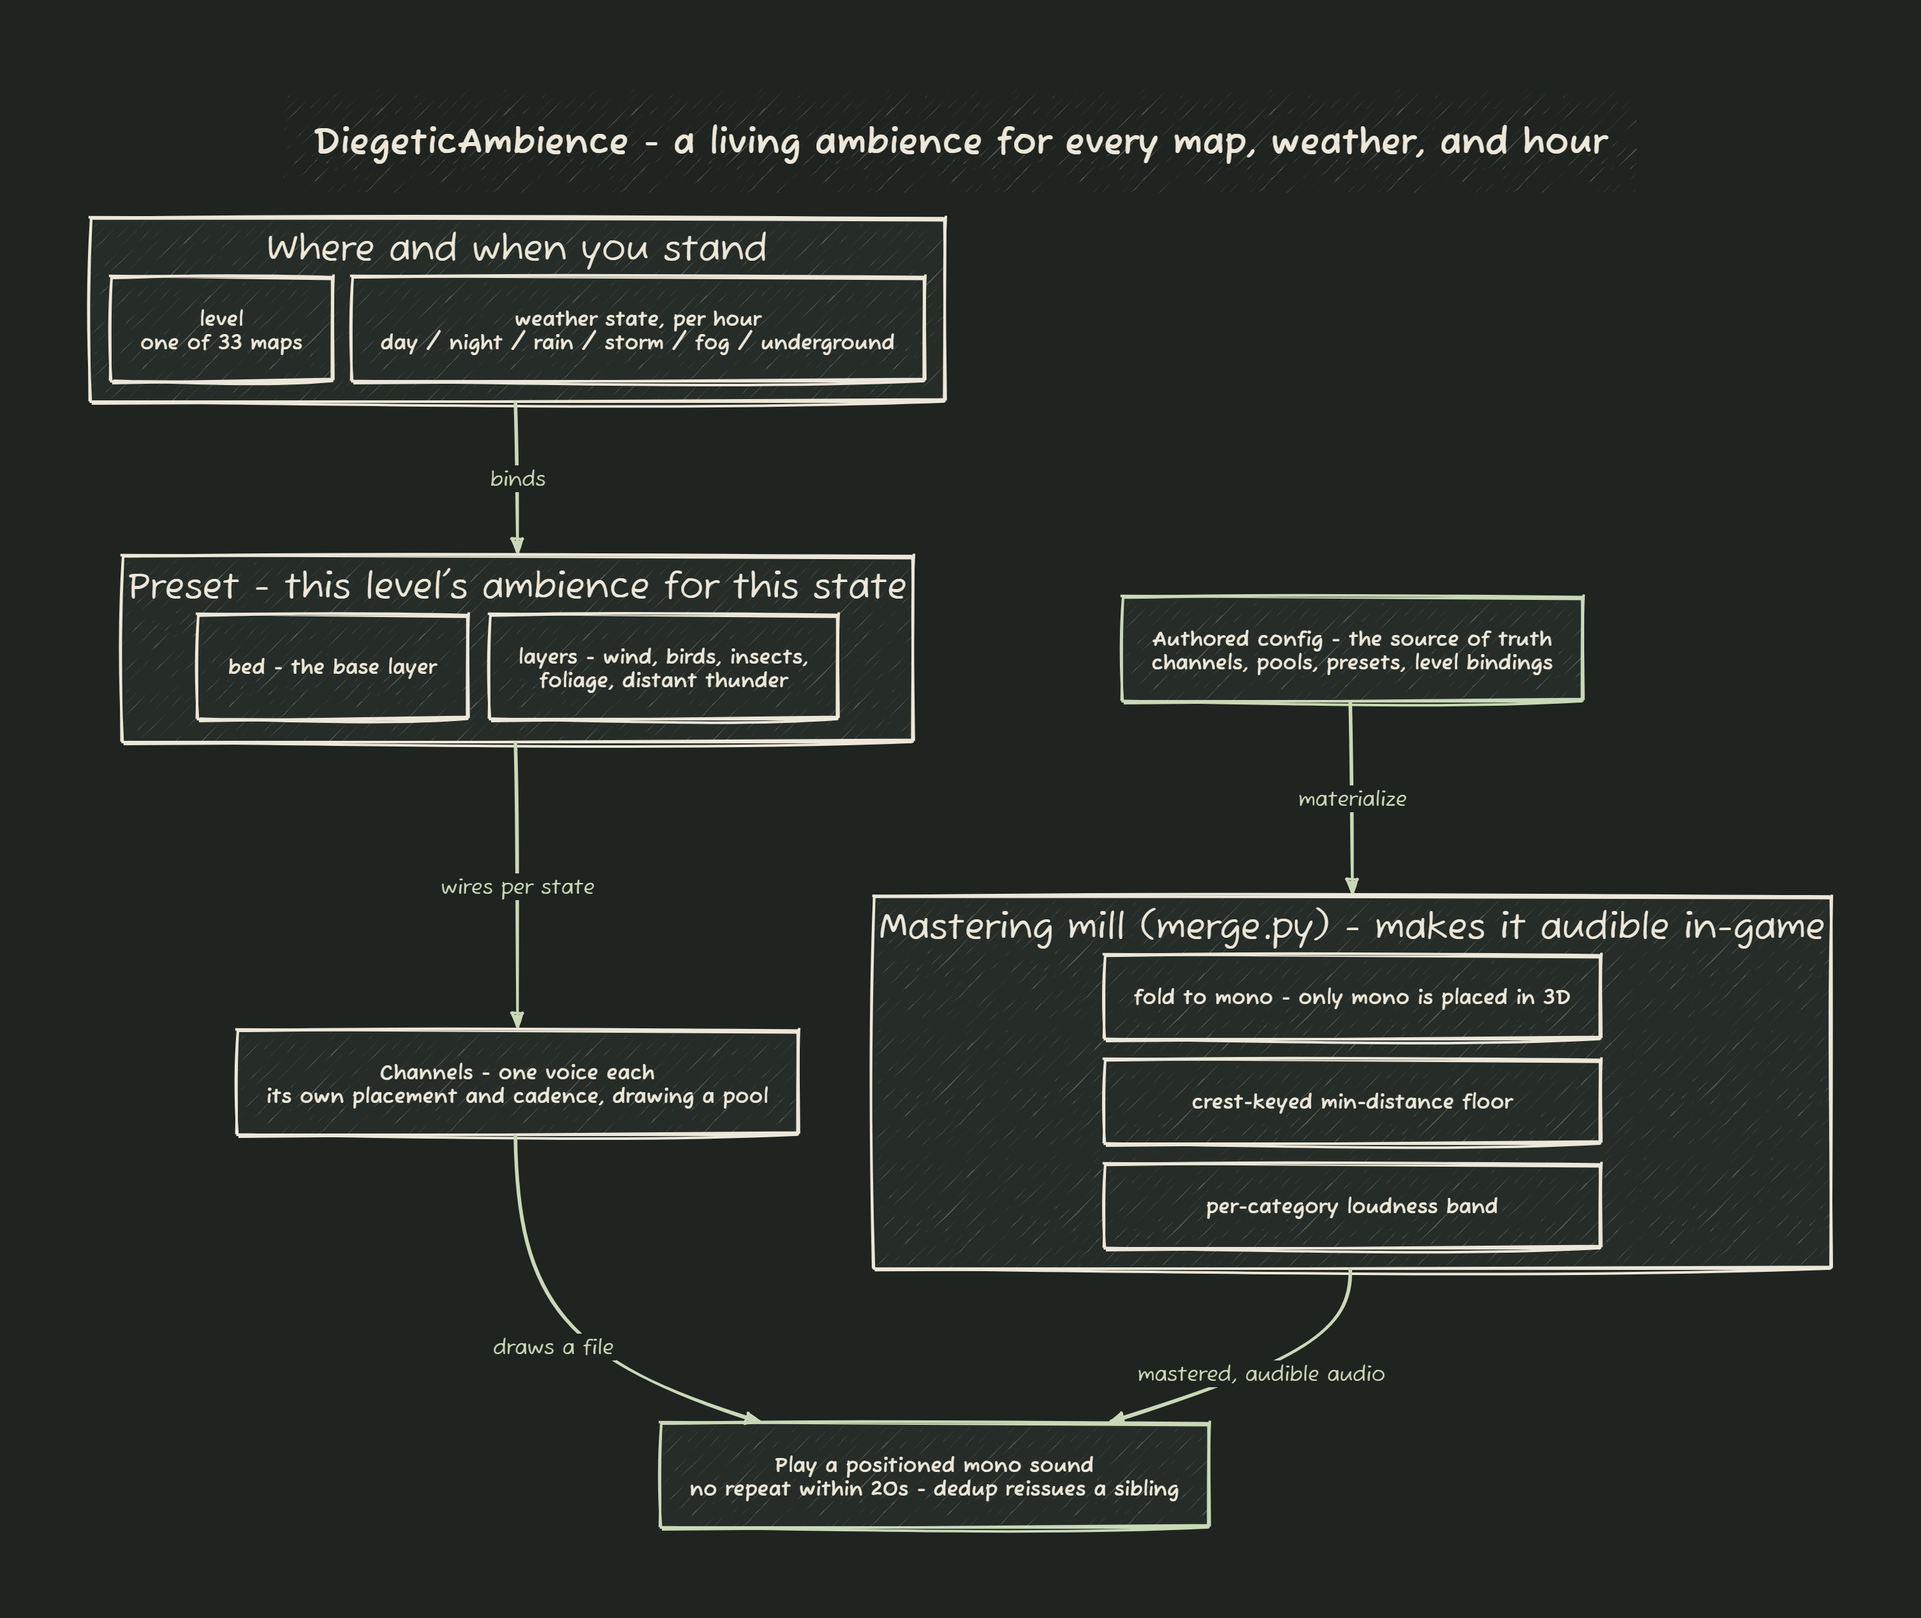
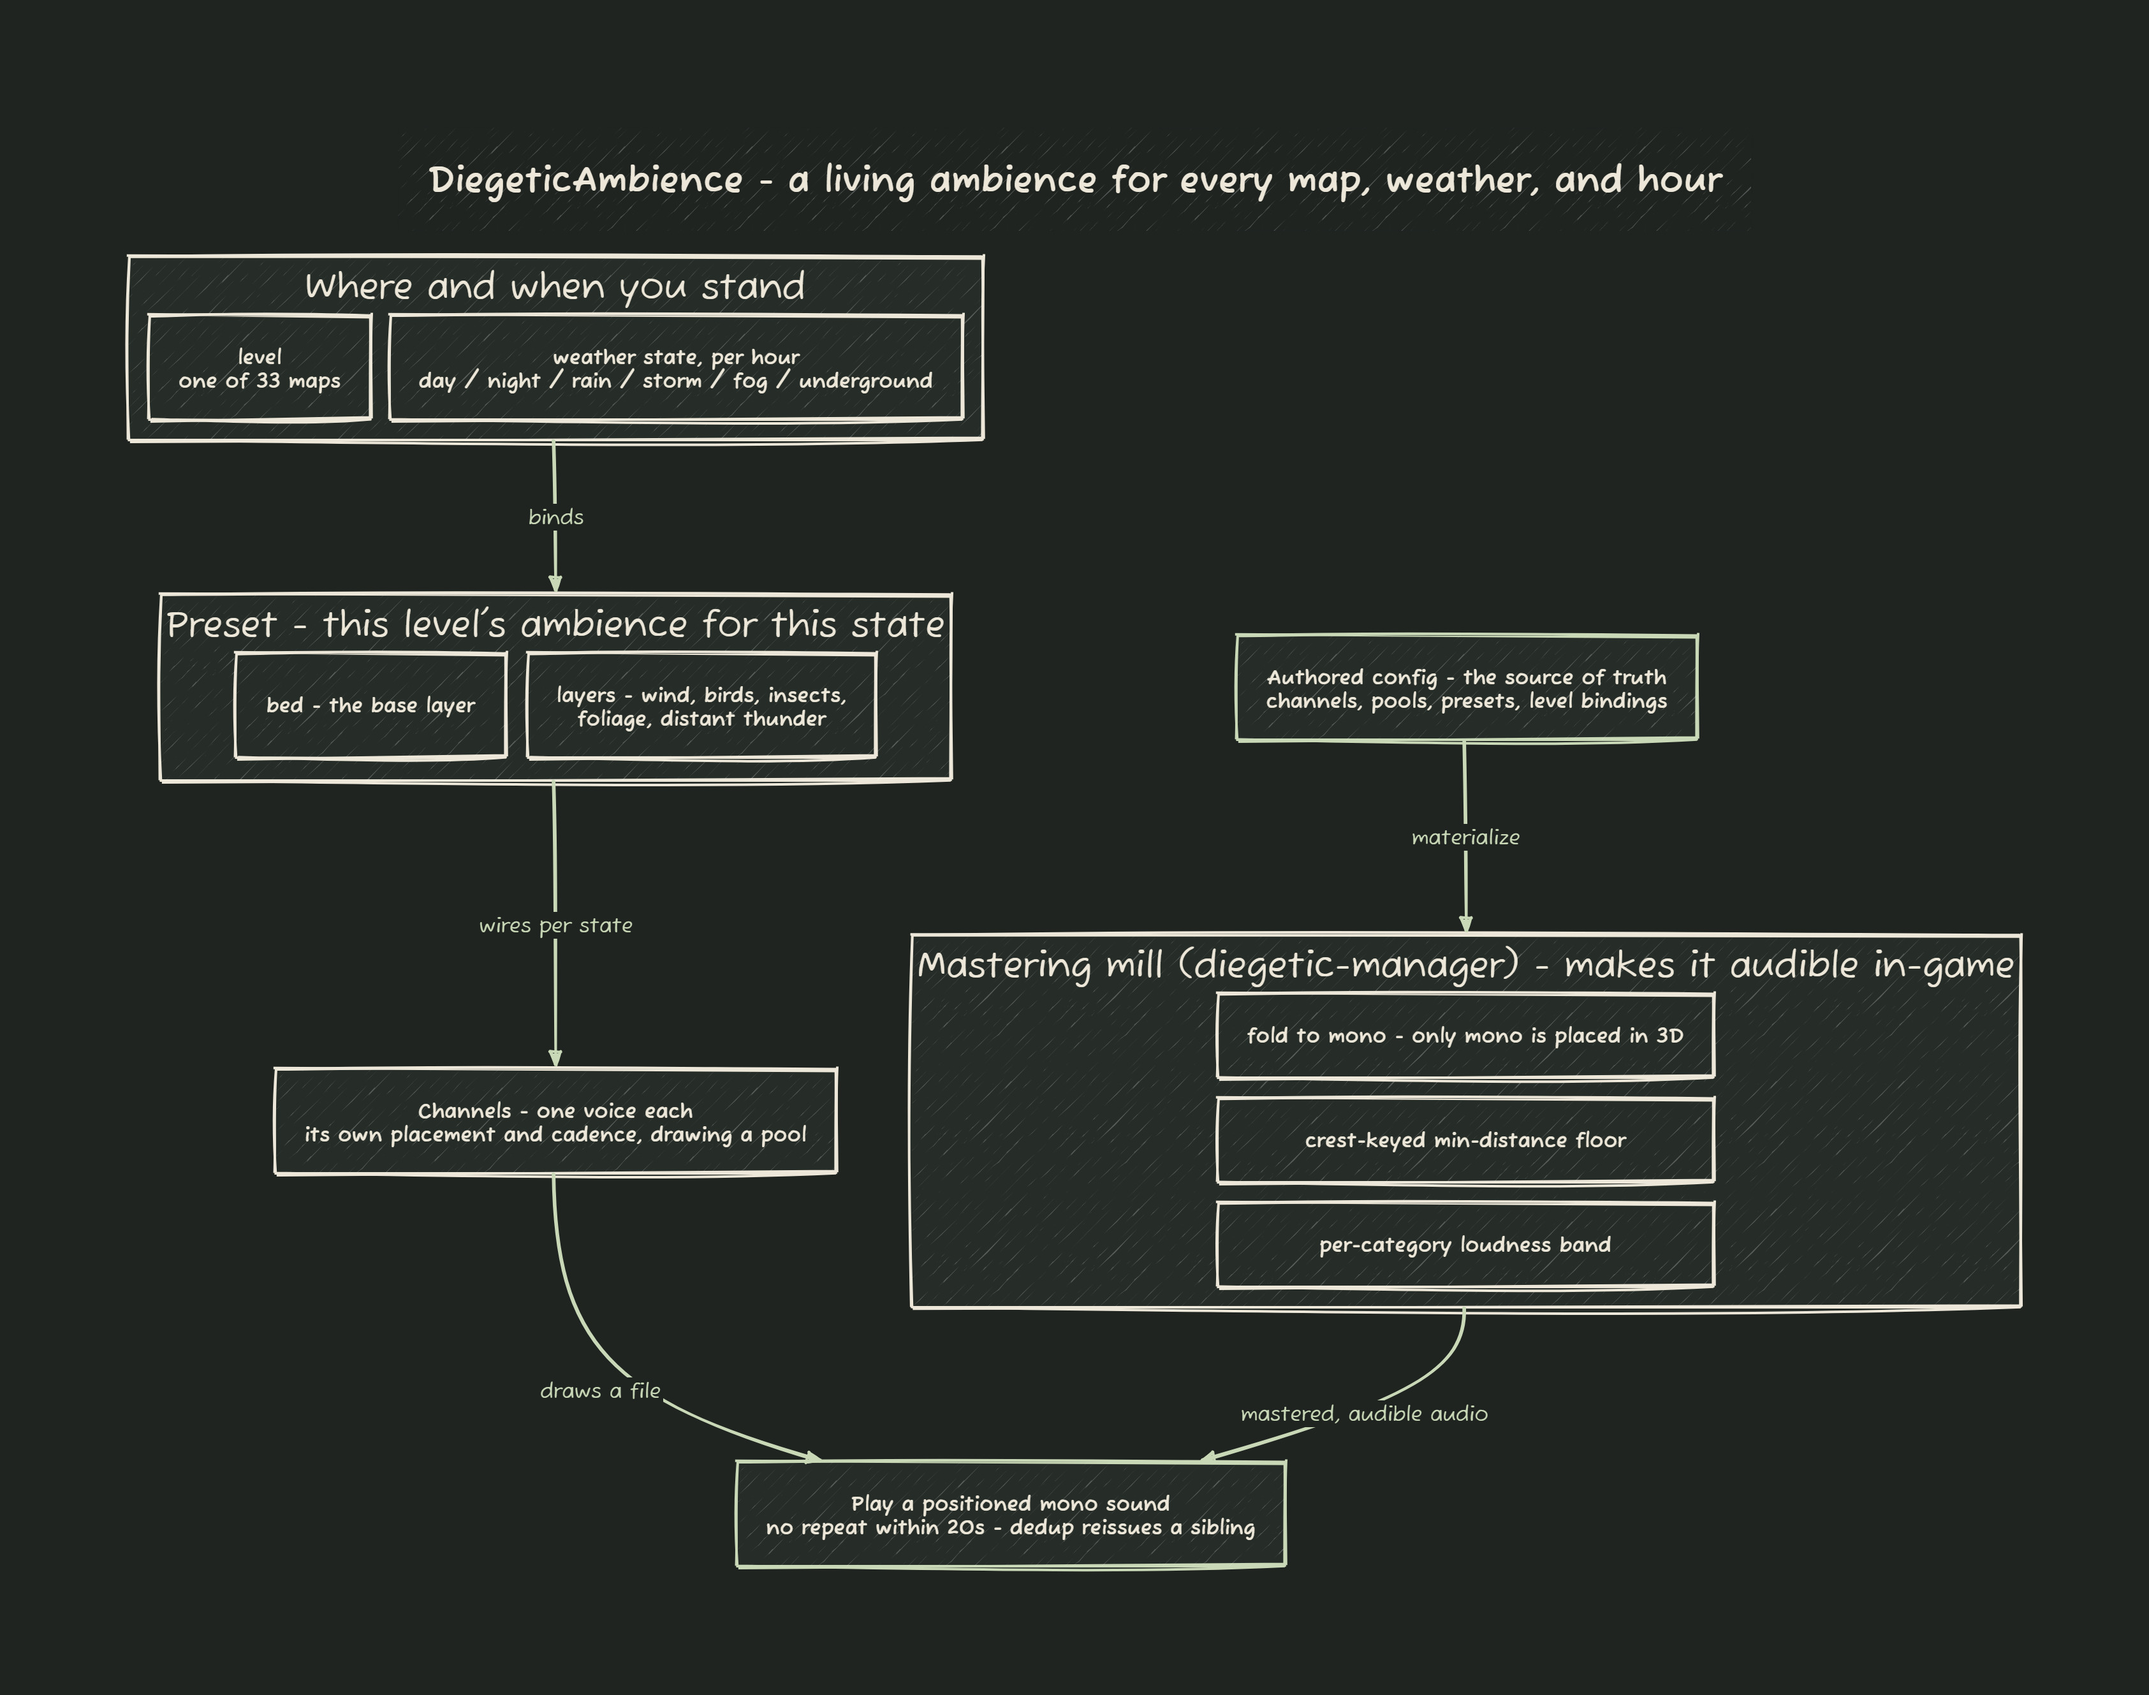
docs(architecture): diegetic-manager in the veto cite and the pipeline diagram
The how-it-works diagram regenerated from the relabeled d2 source.

diff --git a/doc/architecture.md b/doc/architecture.md
@@ -200,7 +200,7 @@ The links below those three are weather-mod-independent. Variants for other weat
 10. Collection coverage: every thunderbolt collection name the active weather mod references resolves in the base game's collection set.
 11. Veto simulation: no channel that the DiegeticDread veto touches may end EMPTY at load.
     The intersection itself is designed coexistence (the veto exists so base channels do not double the director's captured sounds).
-    The veto generator appends `>sounds = ambient\no_sound` to every touched channel (DiegeticDread `build.py:1065-1130`), so a fully-vetoed channel plays silence.
+    The veto generator appends `>sounds = ambient\no_sound` to every touched channel (the diegetic-manager veto emitter, from DiegeticDread's manifest veto rows), so a fully-vetoed channel plays silence.
     A System A bed with no `sounds` key is a load failure (`Environment_misc.cpp:105-108`), which is exactly what that guard prevents.
     The gate FAILs only if a touched channel lacks the guard, and it reports fully-silenced channels as the Spooks-owned boundary picture.
 12. Level coverage: every playable base-game level (`LEVELS_BASE`, the `game_maps_single.ltx` set minus `fake_start`) binds an `ambients/<level>.ltx`.
